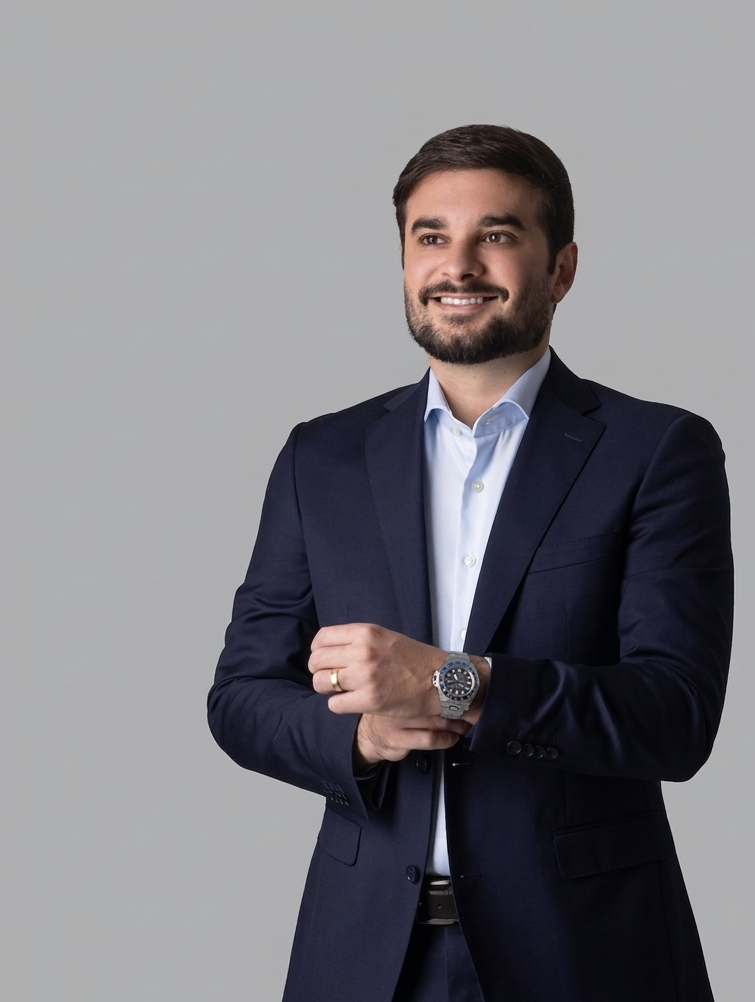
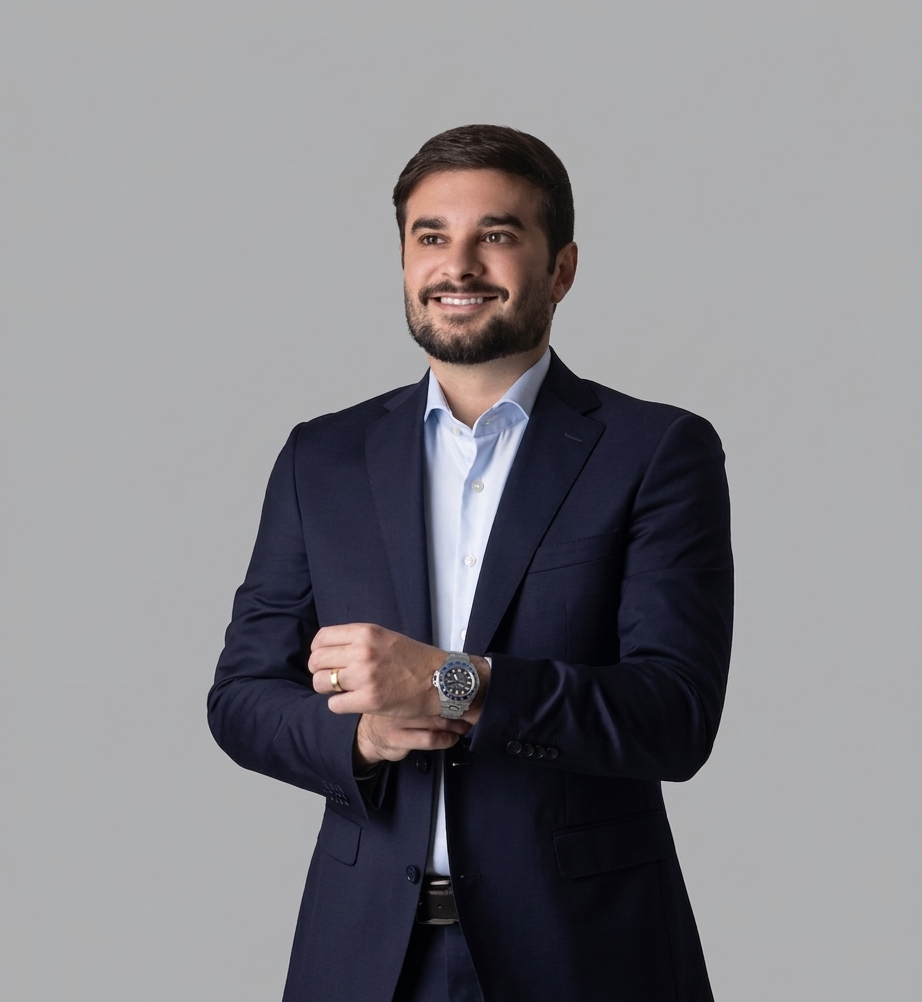
fix: restaurar retrato anterior no hero
Volta para dr-francisco-retrato-hero.png em vez do hero2.

diff --git a/src/components/Hero.tsx b/src/components/Hero.tsx
@@ -8,7 +8,7 @@ export function Hero() {
       className="relative flex min-h-[100svh] items-end overflow-hidden bg-black text-white"
     >
       <Image
-        src="/media/dr-francisco-retrato-hero2.png"
+        src="/media/dr-francisco-retrato-hero.png"
         alt="Dr. Francisco Furtado"
         fill
         priority